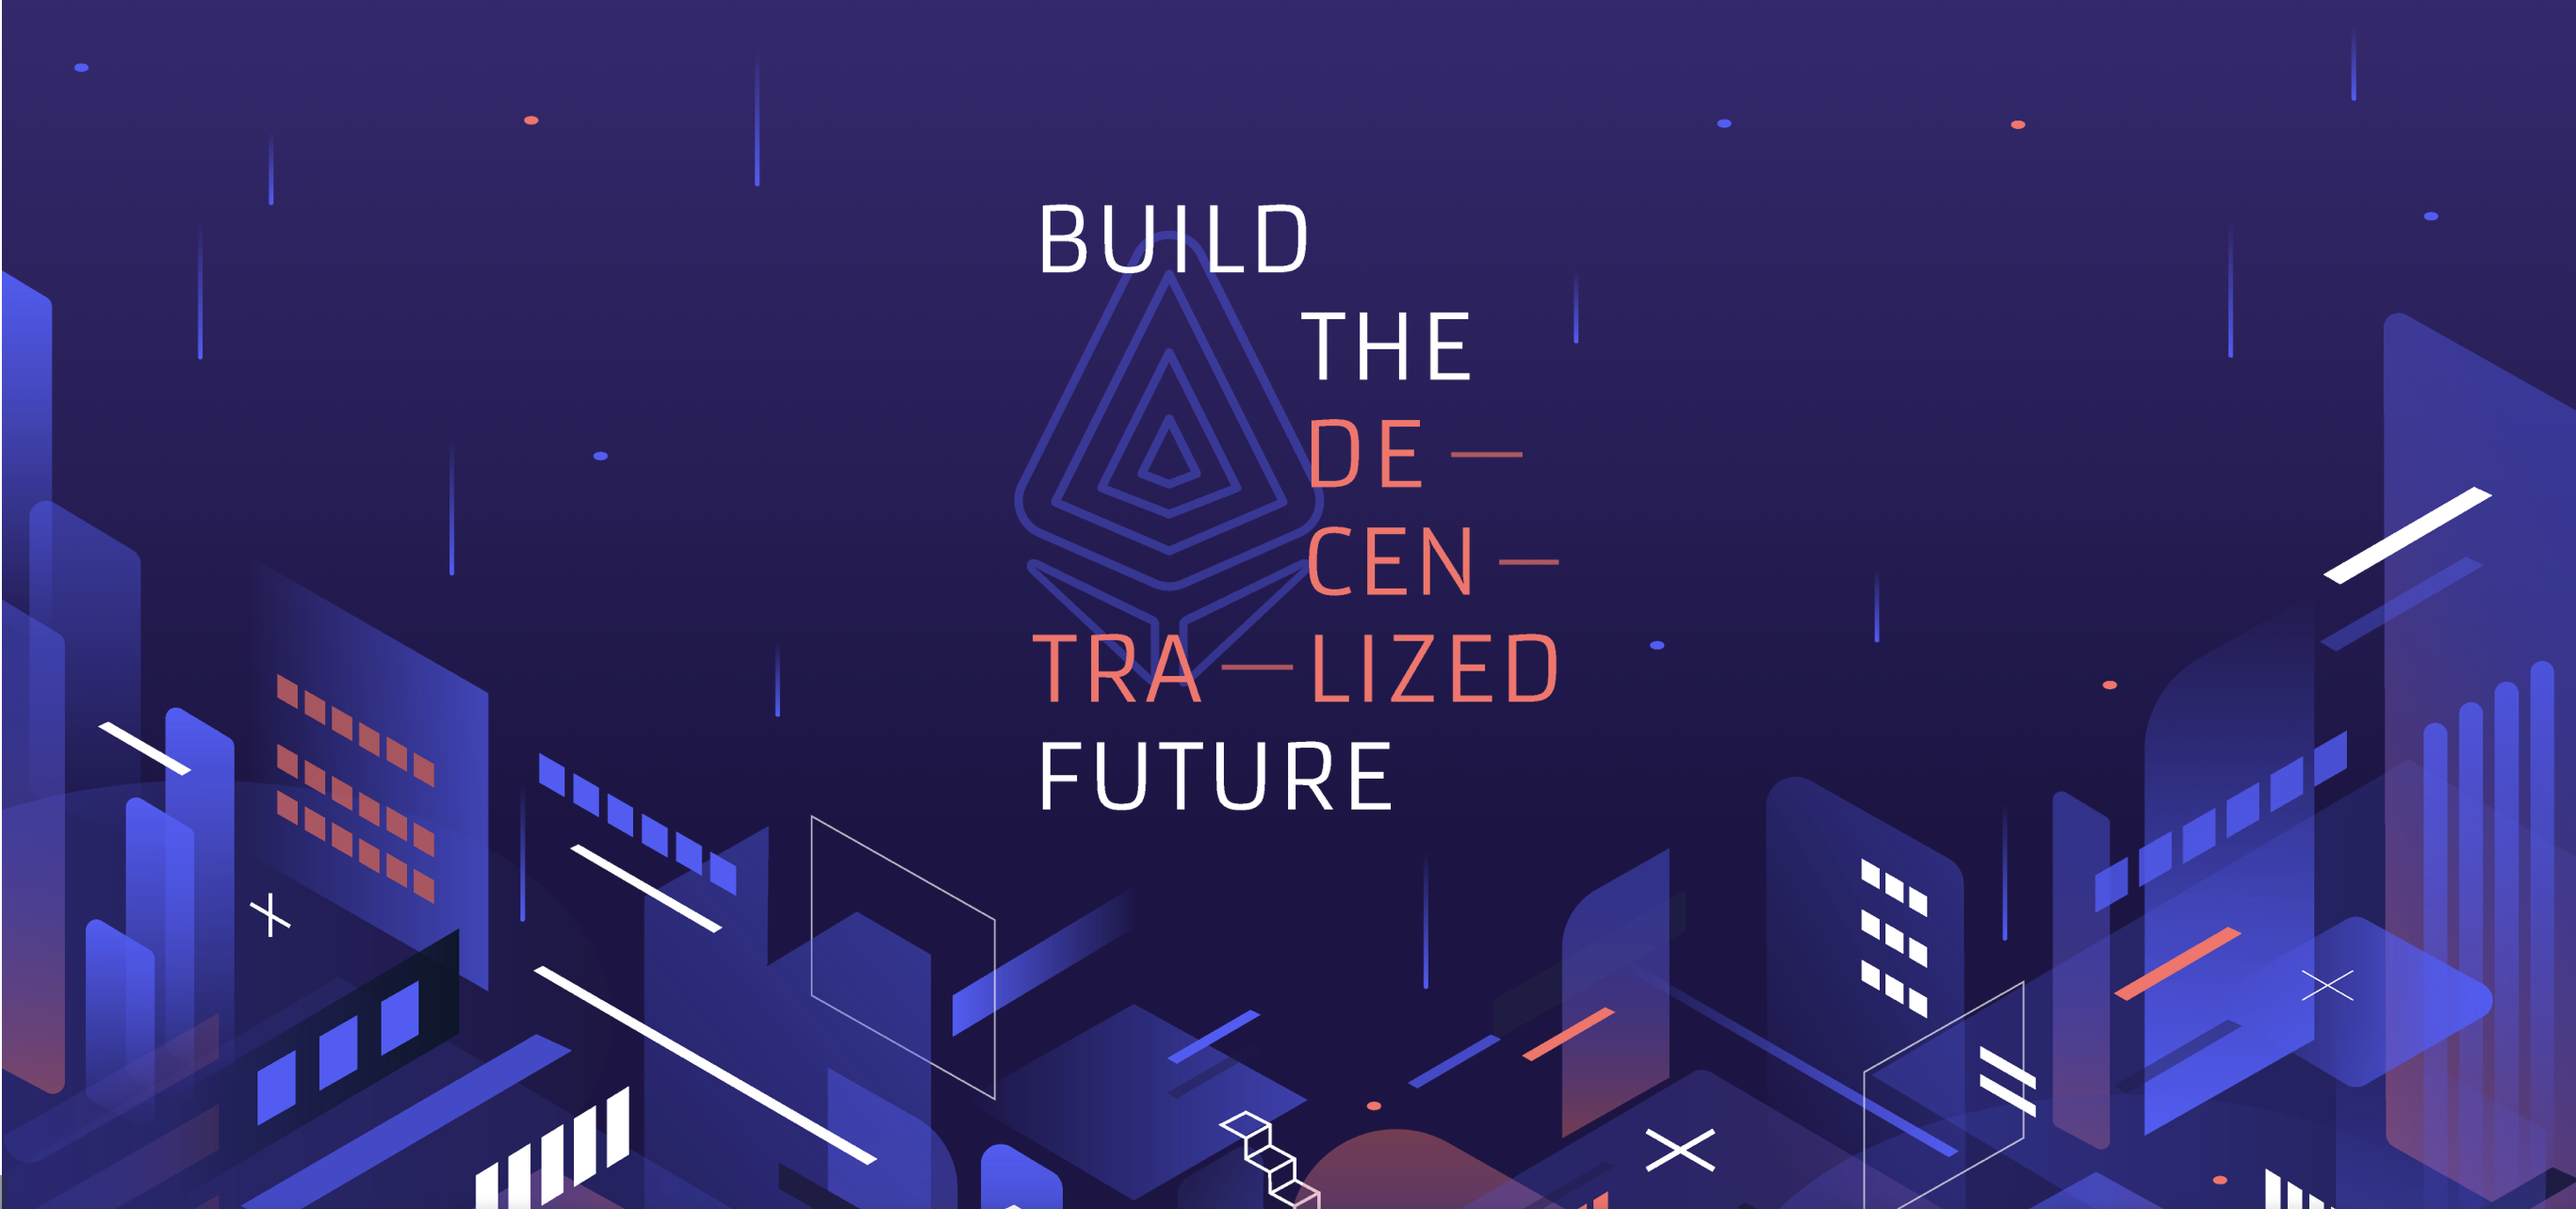
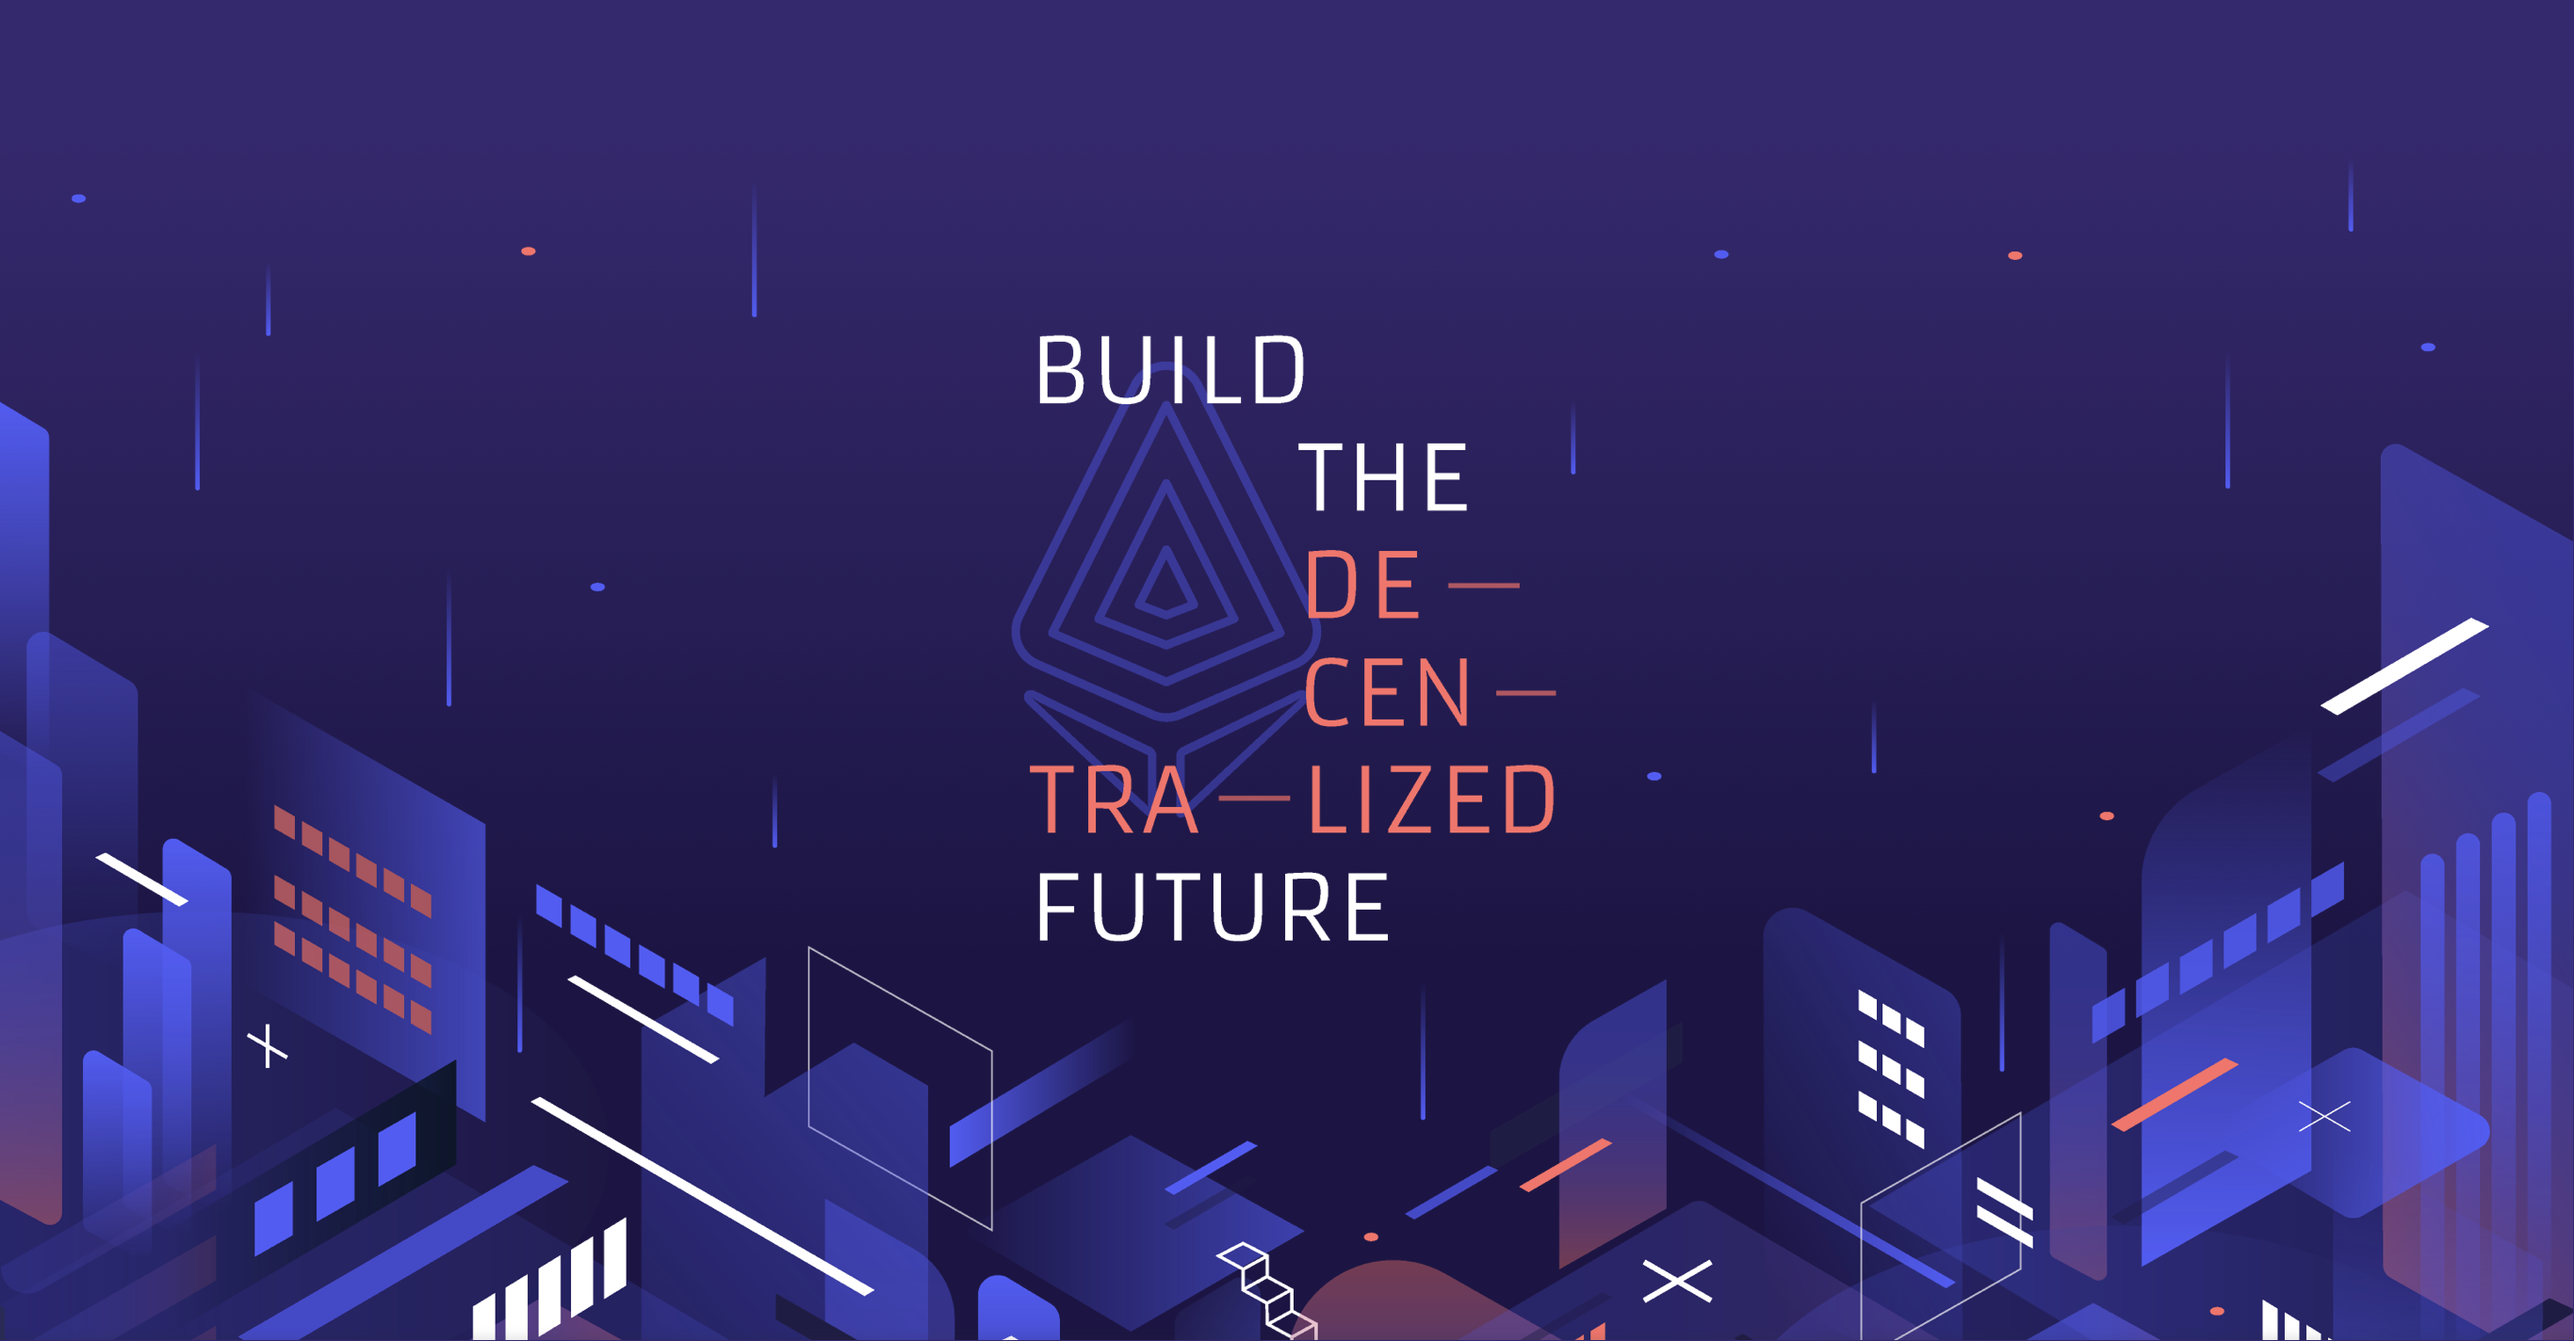
Pruebas en education

diff --git a/frontend/src/components/education/categories/Categories.js b/frontend/src/components/education/categories/Categories.js
@@ -1,0 +1,110 @@
+import React, { Component } from "react";
+import { Grid } from "@material-ui/core";
+import down from "../../../assets/icons/baseline-keyboard_arrow_down-24px.svg";
+import LinkCard from "../../common/linkCard/LinkCard";
+import Skeleton from "react-loading-skeleton";
+import "./categories.scss";
+
+const axios = require("axios");
+
+export default class Categories extends Component {
+  state = {
+    entries1: [],
+    entries2: [],
+    entries3: []
+  };
+
+  componentDidMount = async () => {
+    await this._fetchData();
+  };
+
+  formatData = data => {
+    let categories1 = [];
+    let categories2 = [];
+    let categories3 = [];
+
+    const filterCategories1 = data.filter(
+      categories => categories.category === "Categoria 1"
+    );
+    categories1.push(filterCategories1);
+    this.setState({ entries1: filterCategories1 });
+
+    const filterCategories2 = data.filter(
+      categories => categories.category === "Categoria 2"
+    );
+    categories2.push(filterCategories2);
+    this.setState({ entries2: filterCategories2 });
+
+    const filterCategories3 = data.filter(
+      categories => categories.category === "Categoria 3"
+    );
+    categories3.push(filterCategories3);
+    this.setState({ entries3: filterCategories3 });
+  };
+
+  _fetchData = async () => {
+    try {
+      const response = await axios.get(
+        "http://www.mocky.io/v2/5ce83421350000c511cf643e"
+      );
+      this.formatData(response.data);
+    } catch (error) {
+      console.error(error);
+    }
+  };
+
+  render() {
+    return (
+      <div>
+        <Grid item xs={12} className={"categories"}>
+          <div className="box-categories">
+            <img src={down} alt="down" className="img-down" />
+            <p className="text-categoria">CATEGORIA 1</p>
+          </div>
+
+          {this.state.entries1.map(category1 => {
+            return (
+              <LinkCard
+                key={category1.title}
+                title={category1.title}
+                url={category1.url}
+              />
+            );
+          })}
+        </Grid>
+
+        <Grid item xs={12} className={"categories"}>
+          <div className="box-categories">
+            <img src={down} alt="down" className="img-down" />
+            <p className="text-categoria">CATEGORIA 2</p>
+          </div>
+          {this.state.entries2.map(category2 => {
+            return (
+              <LinkCard
+                key={category2.title}
+                title={category2.title}
+                url={category2.url}
+              />
+            );
+          })}
+        </Grid>
+
+        <Grid item xs={12} className={"categories"}>
+          <div className="box-categories">
+            <img src={down} alt="down" className="img-down" />
+            <p className="text-categoria">CATEGORIA 3</p>
+          </div>
+          {this.state.entries3.map(category3 => {
+            return (
+              <LinkCard
+                key={category3.title}
+                title={category3.title}
+                url={category3.url}
+              />
+            );
+          })}
+        </Grid>
+      </div>
+    );
+  }
+}

diff --git a/frontend/src/components/common/linkCard/linkCard.scss b/frontend/src/components/common/linkCard/linkCard.scss
@@ -1,0 +1,37 @@
+@import "../../../styles/variables.scss";
+
+.text-categoria {
+  margin-top: -20px;
+  display: inline;
+  font-size: 15px;
+  font-family: "Comfortaa";
+  font-weight: 700;
+  line-height: 10px;
+  margin-left: 7.93px;
+}
+
+.text-linkCard {
+  color: $orange;
+  font-family: "Comfortaa";
+  font-size: 15px;
+  font-weight: 700;
+  letter-spacing: 1px;
+  line-height: 27px;
+  margin-left: 16px;
+  width: 690px;
+}
+
+.text-linkCard-2 {
+  color: rgba(30, 19, 70, 0.26);
+  font-family: "Comfortaa";
+  font-size: 15px;
+  font-weight: 700;
+  letter-spacing: 1px;
+  line-height: 27px;
+}
+
+.container-linkCard {
+  margin-top: 10px;
+  min-width: 1173px;
+  height: 54px;
+}

diff --git a/frontend/src/components/common/linkCard/LinkCard.js b/frontend/src/components/common/linkCard/LinkCard.js
@@ -1,0 +1,27 @@
+import React from "react";
+import { Grid } from "@material-ui/core";
+import Card from '@material-ui/core/Card';
+
+import './linkCard.scss'
+
+
+
+const LinkCard = ({ title, url}) => (
+    <Grid item xs={12} sm={6} md={3} lg={3} className={"box-linkCard"}>
+
+<Card className="container-linkCard">
+      <div className="center-item">
+        <p className="text-linkCard" component="p">
+            {title}
+        </p>
+        <p className="text-linkCard-2" component="p">
+            {url}
+        </p>
+      </div>    
+</Card>
+
+
+      </Grid>
+)
+
+export default LinkCard

diff --git a/frontend/src/components/headerWhite/HeaderWhite.js b/frontend/src/components/headerWhite/HeaderWhite.js
@@ -3,14 +3,14 @@ import {Grid} from '@material-ui/core';
 import logo from '../../assets/ethBuenosAires.png';
 import { Link } from 'react-router-dom'
 
-import './header.scss'
+import './headerWhite.scss'
 
 
 
-export default class HeaderWhite extends Component {
+export default class Header extends Component {
     render() {
         return (
-            <div className={"main-header"}>
+            <div className="main-header-2">
                 <Grid container>
                     <Grid item xs={3}>
                         <img src={logo} className={"logo"} alt={"logo"}/>

diff --git a/frontend/src/containers/home/home.scss b/frontend/src/containers/home/home.scss
@@ -1,11 +1,16 @@
-    .main {
+.header-home {
+    z-index: 1000;
+}
+
+.main {
         background-image: url("./../../assets/mainBackground.png");
         height: 88vh;
         background-position: 50% 50%;
         background-size: cover;
+        margin-top: -140px;
     }
 
-    .gradient {
+.gradient {
         background: white;
-        background: linear-gradient(to top, white 0%, #f0f3ff 100%);
+        background: linear-gradient(to bottom, white 0%, #f0f3ff 100%);
     }

diff --git a/frontend/src/components/education/categories/categories.scss b/frontend/src/components/education/categories/categories.scss
@@ -1,0 +1,27 @@
+@import '../../../styles/variables.scss';
+
+
+.categories {
+  padding: 50px 90px 0 89px;
+  }
+  
+.box-categories {
+  display: flex;
+  align-items: center;
+  padding: 0 0 0 0;
+}
+.img-down {
+  display: inline;
+  width: 25px;
+  margin-top: -40px;
+}
+
+.text-categoria {
+  display: inline;
+  font-size: 15px;
+  font-family: "Comfortaa";
+  font-weight: 700;
+  line-height: 10px;
+  margin-left: 7.93px;
+  margin-top: -20px;
+}

diff --git a/frontend/src/containers/education/Education.js b/frontend/src/containers/education/Education.js
@@ -1,7 +1,19 @@
 import React, { Component } from "react";
+import HeaderWhite from "../../components/headerWhite/HeaderWhite";
+import Categories from "../../components/education/categories/Categories";
+
+import './education.scss'
 
 export default class Education extends Component {
+
   render() {
-    return <div>Education</div>;
+    
+    return <div>
+      
+      <HeaderWhite />
+
+      <Categories />
+
+    </div>
   }
 }

diff --git a/frontend/src/containers/events/Events.js b/frontend/src/containers/events/Events.js
@@ -1,12 +1,12 @@
 import React, {Component} from 'react';
-import { Link } from 'react-router-dom';
+import HeaderWhite from '../../components/headerWhite/HeaderWhite';
 
 export default class Events extends Component {
     render() {
         return (
             <div>
-                Events<br />
-                <Link to={'/'}>Home</Link>
+                <HeaderWhite />
+
             </div>
         );
     }

diff --git a/frontend/src/components/headerWhite/headerWhite.scss b/frontend/src/components/headerWhite/headerWhite.scss
@@ -1,13 +1,13 @@
 $break-small: 320px;
 $break-medium: 0px;
 $break-large: 1200px;
-.main-header {
+.main-header-2 {
     background-color:#5b4e9400;
     height: 140px;
     .text {
         height: 25px;
         width: 54px;
-        color: #FFFFFF;
+        color: rgb(36, 36, 36);
         font-family: Comfortaa;
         font-size: 14px;
         font-weight: bold;

diff --git a/frontend/src/containers/ecosystem/Ecosystem.js b/frontend/src/containers/ecosystem/Ecosystem.js
@@ -1,8 +1,16 @@
 import React, {Component} from 'react';
+import HeaderWhite from '../../components/headerWhite/HeaderWhite';
 
 export default class Ecosystem extends Component {
     render(){
-        return(<div>Ecosystem</div>);
+        return (
+            <div>
+
+                <HeaderWhite />
+
+
+            </div>
+        );
     }
 }
 

diff --git a/frontend/src/containers/home/Home.js b/frontend/src/containers/home/Home.js
@@ -12,7 +12,7 @@ export default class Home extends Component {
   render() {
     return (
       <div>
-        <Header />
+        <Header className="header-home"/>
 
         <div className={"main"} />
 

diff --git a/frontend/src/styles/main.scss b/frontend/src/styles/main.scss
@@ -12,4 +12,10 @@ body,
 html {
     margin: 0;
     padding: 0;
+    background-color: #FAFBFF;
+}
+
+.center-item {
+    display: flex;
+    align-items: center;
 }
